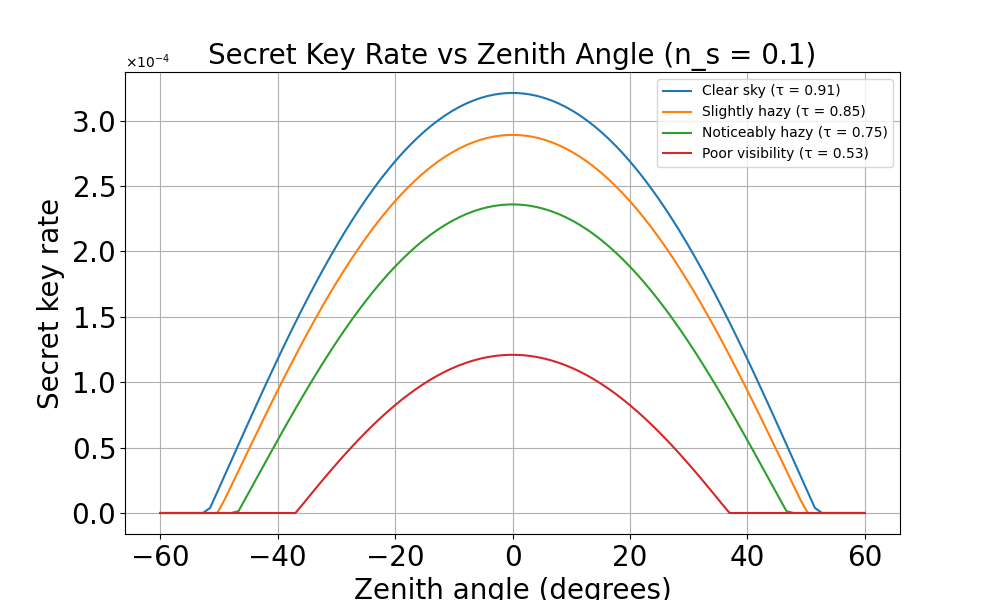
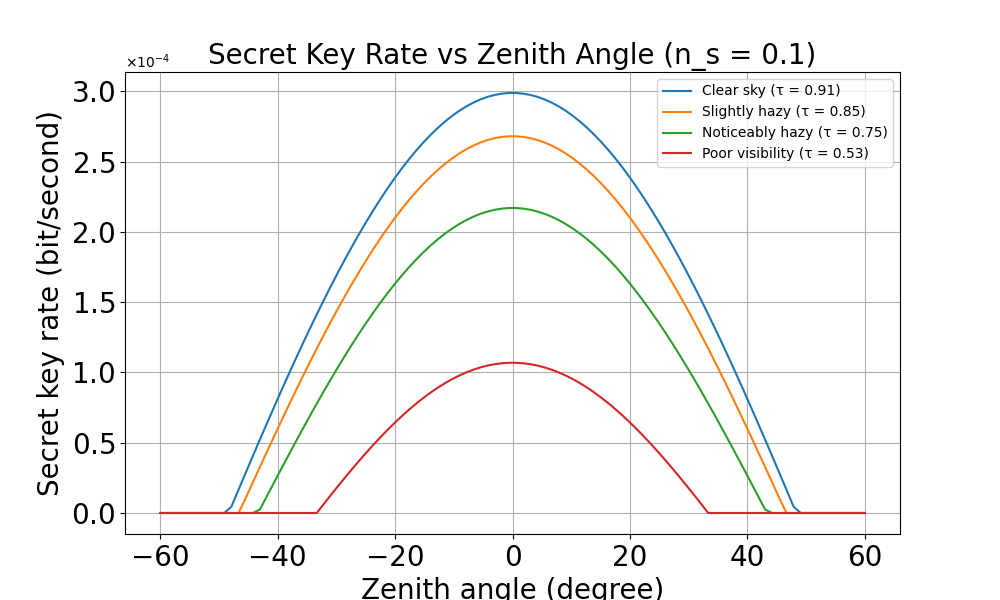
simulate theoritical secret keyrate

diff --git a/BB84/SimulationResult/Circle_beam/SKR/skr_pulse_rate_zenith.py b/BB84/SimulationResult/Circle_beam/SKR/skr_pulse_rate_zenith.py
@@ -6,7 +6,7 @@ from scipy.special import erf
 from scipy.stats import lognorm
 import matplotlib.pyplot as plt
 from matplotlib.ticker import ScalarFormatter
-
+from matplotlib.ticker import ScalarFormatter
 from scipy.integrate import quad
 from secretkeyrate import compute_secret_keyrate
 import os
@@ -60,6 +60,20 @@ theta_d_half_rad = theta_d_rad /2
 # v_wind: wind_speed
 #==================================================================#
 v_wind = 21 
+
+#==================================================================#
+# mu_x, mu_y: Mean values of pointing error in x and y directions (m)
+#==================================================================#
+# mu_x = 0
+# mu_y = 0
+
+#==================================================================#
+# angle_sigma_x, angle_sigma_y: Beam jitter standard deviations of the Gaussian-distibution jitters (rad)
+#==================================================================#
+# angle_sigma_x = theta_d_half_rad /2
+# angle_sigma_y = theta_d_half_rad /2
+# angle_sigma_x = theta_d_half_rad / 3
+# angle_sigma_y = theta_d_half_rad / 3
 
 #=======================================================#
 # QBER parameters
@@ -158,7 +172,7 @@ def rytov_variance(len_wave, theta_zen_rad, H_OGS, H_atm, Cn2_profile):
 
     return sigma_R_squared
 
-def cn2_profile(h, v_wind=21, Cn2_0=1e-13):
+def cn2_profile(h, v_wind=21, Cn2_0=1e-15):
     term1 = 0.00594 * (v_wind / 27)**2 * (1e-5 * h)**10 * np.exp(-h / 1000)
     term2 = 2.7e-16 * np.exp(-h / 1500)
     term3 = Cn2_0 * np.exp(-h / 100)
@@ -203,6 +217,7 @@ def equivalent_beam_width_squared(a, w_L):
     denominator = 2 * nu * math.exp(-nu**2)
     return w_L**2 * (numerator / denominator)
 
+
 def qner_new_infinite(theta_zen_rad, H_atm, w_L, tau_zen, LoS):
     mu_x = 0
     mu_y = 0
@@ -246,7 +261,7 @@ def weather_condition(tau_zen):
         return 'Poor visibility'
     else:
         return 'Unknown condition'
-
+    
 
 def main():
     tau_zen_list = [0.91, 0.85, 0.75, 0.53]
@@ -254,7 +269,7 @@ def main():
     plt.figure(figsize=(10, 6))
 
     for tau_zen in tau_zen_list:
-        keyrate_values = []
+        pulserate_values = []
 
         # Get weather condition and H_atm from tau_zen
         weather_condition_str = weather_condition(tau_zen)
@@ -269,20 +284,22 @@ def main():
             waist = beam_waist(h_s, H_g, theta_zen_rad, theta_d_half_rad)
             qber, param_q = qner_new_infinite(theta_zen_rad, H_atm, waist, tau_zen, LoS)
             # qber = qner_new_infinite(theta_zen_rad, H_atm, waist, tau_zen, LoS)
-            # print(qber)
-            print(f'qber: {qber}')
+            print(qber)
+            print(f'param_q: {param_q}')
            
             # prob_error = qber_loss(insta_eta, n_s)
             secret_keyrate = compute_secret_keyrate(qber, param_q, sifting_coefficient, p_estimation, kr_efficiency)
-            keyrate_values.append(secret_keyrate)
+            pulserate = secret_keyrate / 1e-4
+            pulserate_values.append(pulserate)
 
         label = weather_condition_str + f" (τ = {tau_zen})"
-        plt.plot(theta_zen_deg_list, keyrate_values, label=label)
+        plt.plot(theta_zen_deg_list, pulserate_values, label=label)
         
 
-    plt.xlabel("Zenith angle (degree)", fontsize=20)
-    plt.ylabel("Secret key rate (bit/second)", fontsize=20)
-    plt.title(f"Secret Key Rate vs Zenith Angle (n_s = {n_s})", fontsize=20)
+    plt.xlabel("Zenith angle (degrees)", fontsize=20)
+    plt.ylabel("Secret Keyrate(bit/pulse)", fontsize=20)
+    plt.title("Secret Keyrate vs Zenith Angle" + f" $(n_s = {n_s})$", fontsize=20)
+
     plt.grid(True)
     plt.xticks(fontsize=20)
     plt.yticks(fontsize=20)
@@ -291,10 +308,11 @@ def main():
     formatter = ScalarFormatter(useMathText=True)
     formatter.set_powerlimits((-3, 3))  # 指数表示の範囲設定（例: 1e-3 〜 1e+3）
     ax.yaxis.set_major_formatter(formatter)
-    output_path = os.path.join(os.path.dirname(__file__), f'skr_vs_zenith_all_conditions_{n_s}.png')
+    output_path = os.path.join(os.path.dirname(__file__), f'skr_per_pulse_vs_zenith_all_conditions_{n_s}.png')
     plt.savefig(output_path)
     print(f"✅ Saved as: {output_path}")
     plt.show()
+
 
 
 if __name__ == "__main__":
